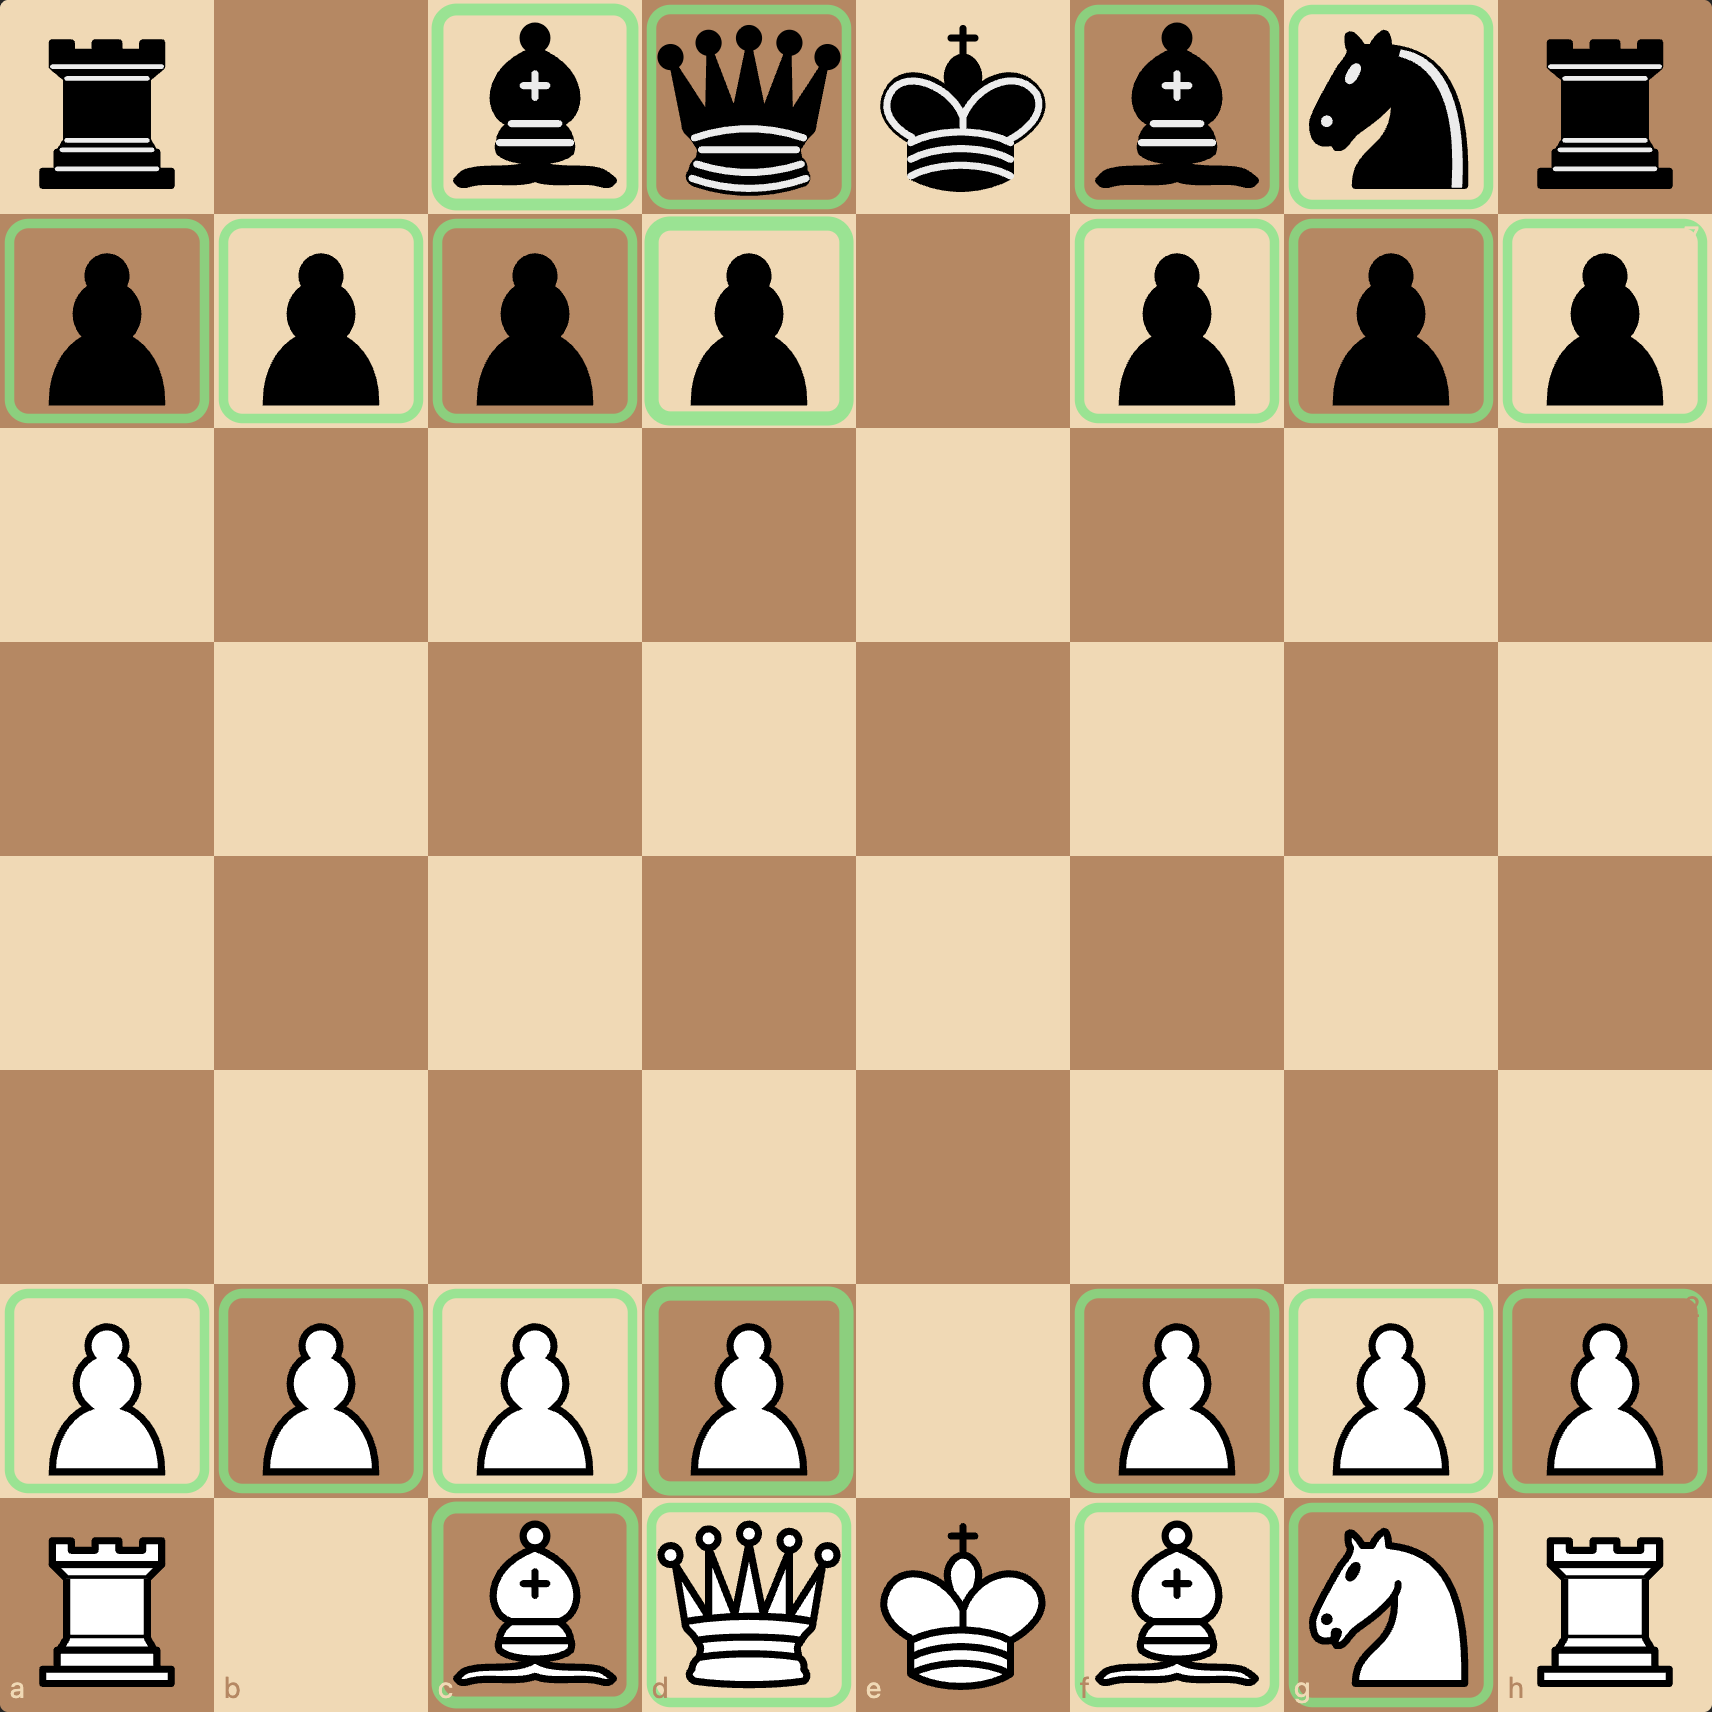
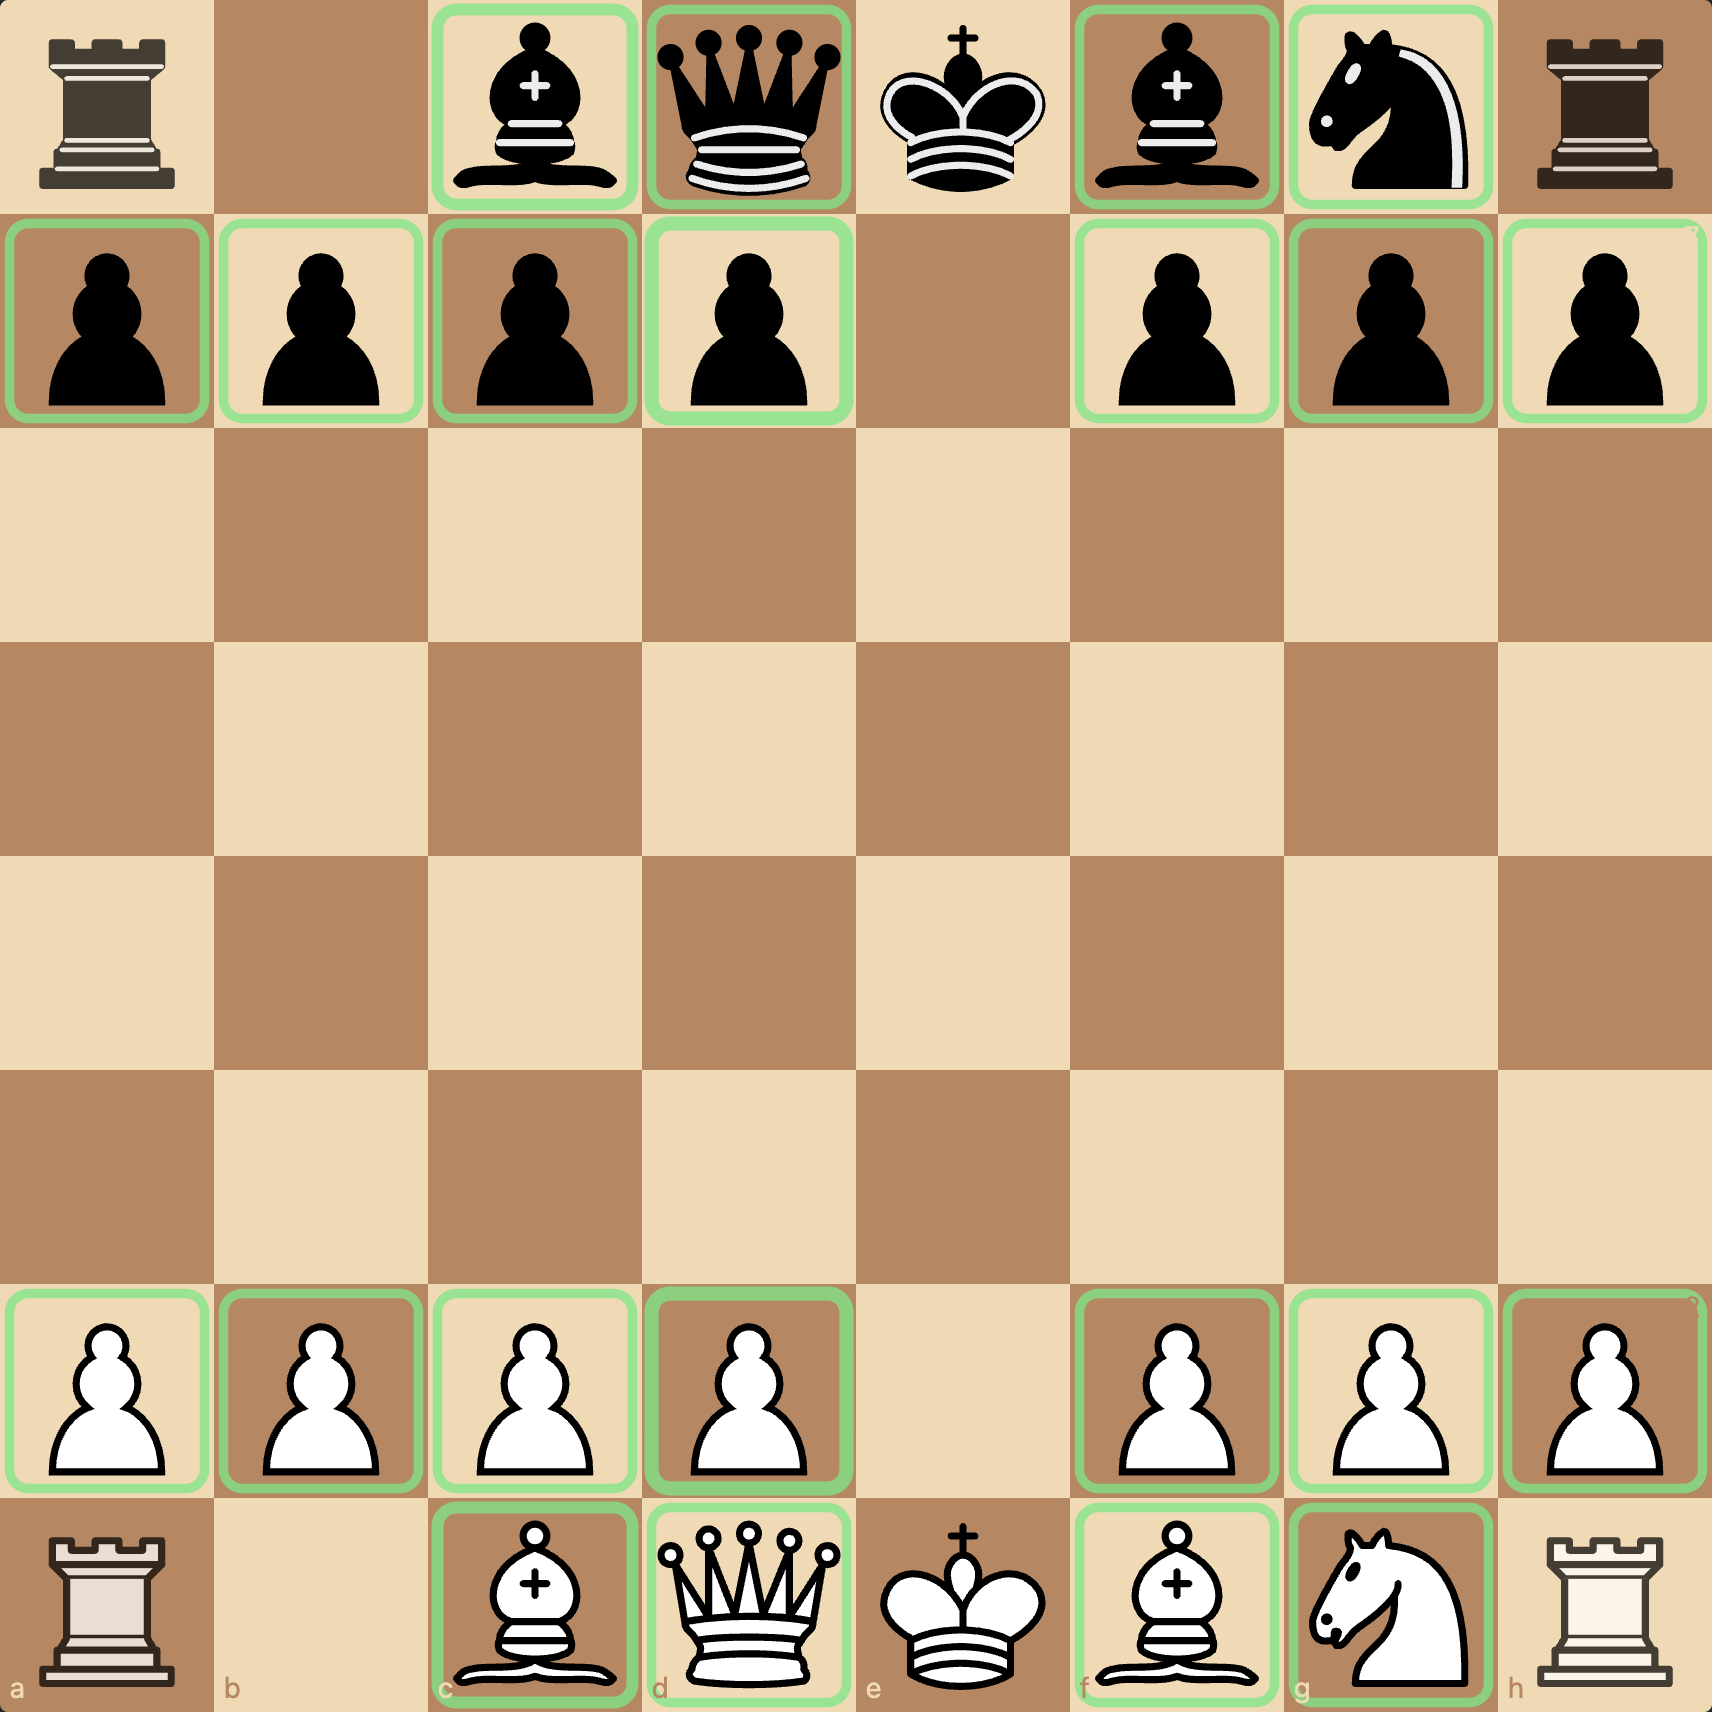
ice: landscape sprites, same style both sizes, no faces; undefended pieces fade to ghosts

diff --git a/js/viz3-pins.js b/js/viz3-pins.js
@@ -53,7 +53,11 @@ export function render(container, fen, controls) {
       if (p.piece === 'K') return 1;
       const friendly = defenders[i].length;
       const enemy = ctrl[i][p.color === 'w' ? 'b' : 'w'].length;
-      if (enemy > 0 && friendly === 0) return 0.5;
+      // Undefended pieces look like ghosts; the red ring (added separately) tells us
+      // whether they're also under attack. Two opacity levels so the difference between
+      // "just unsupported" and "actually hanging" still reads at a glance.
+      if (enemy > 0 && friendly === 0) return 0.45; // hanging
+      if (friendly === 0) return 0.72;              // unsupported, not yet attacked
       return 1;
     },
   });
@@ -81,19 +85,19 @@ function iceCoverage(pin, board) {
 function drawIce(layer, idx, pin, board) {
   const { x, y } = squareXY(idx);
 
-  // Two flavours: big ice when the pin protects the king or the queen (the high-stakes pins),
-  // small ice otherwise. Cleaner mental model than the value-differential ladder we had before.
+  // Big ice when the pin protects the king or the queen, small ice otherwise. Both sprites
+  // share the same crystalline style; only the height differs (big = aggressive tall spikes,
+  // small = low cluster). Source is landscape 3:2, displayed across most of the cell width.
   const isBigStake = pin.behindPiece === 'K' || pin.behindPiece === 'Q';
   const spriteName = isBigStake ? 'ice_full' : 'ice_half';
 
-  // The sprites are roughly square; display them as squares so the new jagged silhouette reads
-  // properly. Anchored at the bottom of the cell so the ice looks like it's growing from the floor.
-  const size = SQ * (isBigStake ? 0.55 : 0.38);
-  const iceX = x + (SQ - size) / 2;
-  const iceY = y + SQ - size - 2;
+  const iceW = SQ * (isBigStake ? 0.96 : 0.78);
+  const iceH = iceW * (1024 / 1536); // sprite aspect, keeps shape
+  const iceX = x + (SQ - iceW) / 2;
+  const iceY = y + SQ - iceH - 1;
 
   layer.appendChild(el('image', {
-    x: iceX, y: iceY, width: size, height: size,
+    x: iceX, y: iceY, width: iceW, height: iceH,
     href: `sprites/${spriteName}.png`,
     preserveAspectRatio: 'xMidYMid meet',
     opacity: 0.95,
@@ -148,9 +152,9 @@ export function buildControls(root, state, onChange) {
 }
 export function legendHTML() {
   return `
-    <div><span class="swatch" style="background: rgba(140,220,255,0.6); border: 1px solid #cdf"></span> Ice, pinned piece. Big pile = pinned against the king or the queen (the high-stakes pins). Small shard = pinned against a less valuable piece.</div>
+    <div><span class="swatch" style="background: rgba(140,220,255,0.6); border: 1px solid #cdf"></span> Ice, pinned piece. Big tall spikes = pinned against the king or the queen (high stakes). Small low cluster = pinned against a less valuable piece.</div>
     <div style="margin-top: 6px;"><span class="swatch" style="background: rgba(126,231,135,0.4); border: 2px solid #7ee787"></span> Green ring, piece is defended (thicker = more defenders).</div>
-    <div style="margin-top: 6px;"><span class="swatch" style="background: transparent; border: 2px dashed #ff6b6b"></span> Red dashed ring, hanging (attacked &amp; undefended). Glyph also fades.</div>
+    <div style="margin-top: 6px;">Undefended pieces fade to a ghostly outline. If the piece is <i>also</i> attacked, a red dashed ring is drawn around it (hanging) and the fade is heavier.</div>
     <div style="margin-top: 6px;">Pin line is dashed in the attacker's color, pink if a white piece is doing the pinning, blue if it's a black piece.</div>
   `;
 }

diff --git a/scripts/generate_sprites.py b/scripts/generate_sprites.py
@@ -62,22 +62,25 @@ def piece_prompt(piece: str, color: str) -> str:
     )
 
 ICE_PROMPT = (
-    "A pile of jagged crystalline ice shards stacked together, not a single block. Irregular "
-    "broken edges everywhere, no straight lines anywhere. Translucent pale-blue ice with bright "
-    "white frost highlights, a few trapped bubbles, sparkles catching the light. The pile is "
-    "roughly hill-shaped, wider at the bottom and tapering toward the top into sharp uneven peaks. "
-    "Designed to overlay a chess piece to make it look frozen in place. Fully transparent "
-    "background, no scene around it. Cute kawaii illustration style with bold dark outlines, "
-    "centered in the frame."
+    "A wide pile of sharp jagged ice spikes filling the entire frame edge to edge. Aggressive "
+    "and dangerous, multiple tall pointed peaks rising upward across the full width. Translucent "
+    "pale-blue crystalline ice with bright white frost highlights on every facet, a few trapped "
+    "bubbles, light sparkles. No straight lines anywhere, all edges sharp and crystalline. The "
+    "base spans the full width of the frame, dramatic spikes reach upward toward the top. "
+    "No face, no eyes, no mouth, no smile, no character of any kind, purely abstract ice "
+    "formation. Fully transparent background outside the ice silhouette. Bold dark outlines, "
+    "illustrated chess-sprite art style."
 )
 
 ICE_HALF_PROMPT = (
-    "A single small jagged ice shard, irregular crystalline shape like a chunk broken off a "
-    "larger ice formation. Translucent pale-blue with bright white frost highlights and a couple "
-    "of trapped bubbles. Sharp uneven edges on every side, no straight lines anywhere. Sized like "
-    "a small wedge or fragment, low and compact. Designed to overlay just the lower portion of a "
-    "chess piece. Fully transparent background. Cute kawaii illustration style with bold dark "
-    "outlines, centered in the frame."
+    "A wide low cluster of jagged ice spikes filling the frame width edge to edge. Exact same "
+    "crystalline visual style as a taller ice pile, just shorter and less menacing. Multiple "
+    "small pointed peaks spread across the width, gentle uneven silhouette rather than dramatic "
+    "spikes. Translucent pale-blue ice with bright white frost highlights along every facet, a "
+    "couple of trapped bubbles, light sparkles. No straight lines anywhere, all edges sharp and "
+    "crystalline. No face, no eyes, no mouth, no smile, no character of any kind, purely abstract "
+    "ice formation. Fully transparent background outside the ice silhouette. Bold dark outlines, "
+    "same illustration style as the taller pile."
 )
 
 THOUGHT_BUBBLE_PROMPT = (
@@ -114,14 +117,14 @@ def save(path: pathlib.Path, data: bytes) -> None:
     print(f"  -> wrote {path.name}  ({kb:.0f} KB)")
 
 
-def generate_one(client: OpenAI, name: str, prompt: str, force: bool) -> bool:
+def generate_one(client: OpenAI, name: str, prompt: str, force: bool, size: str = "1024x1024") -> bool:
     path = OUT_DIR / f"{name}.png"
     if path.exists() and not force:
         print(f"  -- skip (exists): {name}")
         return False
-    print(f"  .. generating: {name}")
+    print(f"  .. generating: {name}  ({size})")
     t0 = time.time()
-    data = call_openai(client, prompt)
+    data = call_openai(client, prompt, size)
     save(path, data)
     print(f"     ({time.time() - t0:.1f}s)")
     return True
@@ -141,30 +144,31 @@ def main() -> int:
 
     client = OpenAI()
 
-    tasks: list[tuple[str, str]] = []
+    tasks: list[tuple[str, str, str]] = []  # (name, prompt, size)
 
     if args.piece:
         colors = [args.color] if args.color else ["w", "b"]
         for c in colors:
-            tasks.append((f"piece_{c}{args.piece}", piece_prompt(args.piece, c)))
+            tasks.append((f"piece_{c}{args.piece}", piece_prompt(args.piece, c), "1024x1024"))
     else:
         if args.only in ("piece", "all"):
             for color in ("w", "b"):
                 for piece in "KQRBNP":
-                    tasks.append((f"piece_{color}{piece}", piece_prompt(piece, color)))
+                    tasks.append((f"piece_{color}{piece}", piece_prompt(piece, color), "1024x1024"))
         if args.only in ("ice", "all"):
-            tasks.append(("ice_full", ICE_PROMPT))
-            tasks.append(("ice_half", ICE_HALF_PROMPT))
+            # Landscape canvas, the ice spans the full width and stays low.
+            tasks.append(("ice_full", ICE_PROMPT, "1536x1024"))
+            tasks.append(("ice_half", ICE_HALF_PROMPT, "1536x1024"))
         if args.only in ("thought", "all"):
-            tasks.append(("thought_bubble", THOUGHT_BUBBLE_PROMPT))
-            tasks.append(("sweat_drop", SWEAT_DROP_PROMPT))
+            tasks.append(("thought_bubble", THOUGHT_BUBBLE_PROMPT, "1024x1024"))
+            tasks.append(("sweat_drop", SWEAT_DROP_PROMPT, "1024x1024"))
 
     print(f"{len(tasks)} sprite(s) to consider; force={args.force}; out={OUT_DIR}")
     # Parallelize up to N at a time, the API is happy with a few concurrent calls.
     PAR = 4
     generated = 0
     with concurrent.futures.ThreadPoolExecutor(max_workers=PAR) as pool:
-        futs = {pool.submit(generate_one, client, name, prompt, args.force): name for name, prompt in tasks}
+        futs = {pool.submit(generate_one, client, name, prompt, args.force, size): name for name, prompt, size in tasks}
         for f in concurrent.futures.as_completed(futs):
             try:
                 if f.result():
